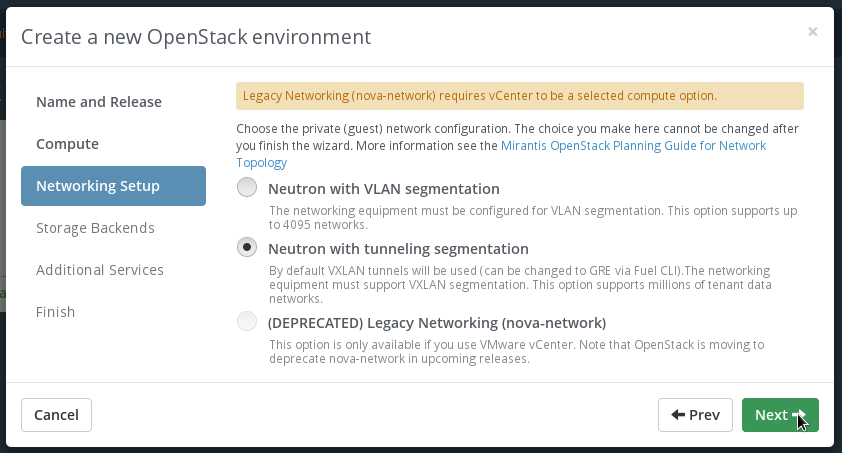
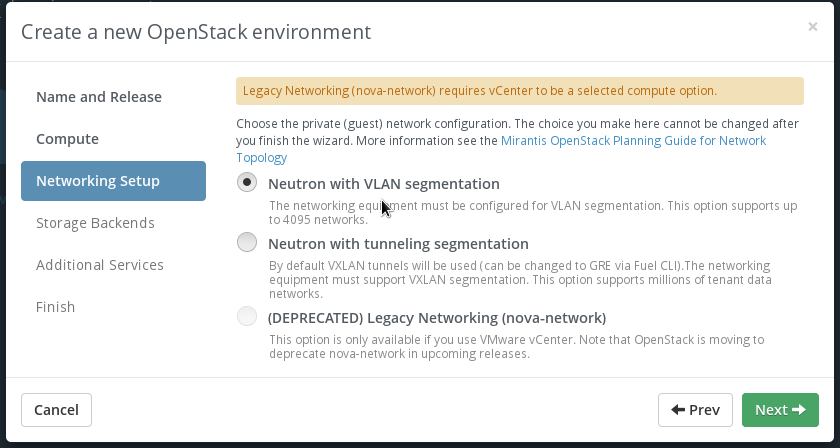
6wind-virtual-accelerator-plugin: update doc to better describe tunnel support
The current plugin version can fully support (and accelerate) only Fuel VLAN
tunnels that use a dedicated interface.
Future versions will add support for VxLAN/GRE and bridged VLANs.
This patch updates documentation to describe this scenario

diff --git a/doc/source/installation.rst b/doc/source/installation.rst
@@ -35,10 +35,11 @@ compute(s) the following requirements are mandatory:
 #.   Internet connectivity on Master node (since the plugin will download software from 6WIND remote repositories)
 #.   A dedicated link for Neutron networking tunnels between Compute and Network
 
-For networking all tunneling options are supported, namely VLAN, VXLAN and GRE.
-It is mandatory to use a dedicated physical network interface for your tunnels
+This version of plugin supports only VLAN as networking tunneling option.
+It is mandatory to use a dedicated physical network interface for your tunnel
 instead of the default Fuel setup that puts this interface on the same used
 for pxe and management.
+Support for VxLAN and for bridged VLAN will be available in future releases.
 
 The 6WIND virtual accelerator needs qemu and libvirt supporting vhostuser and
 multiqueue features to correclty run its fast packet processing stack.
@@ -91,11 +92,7 @@ Configuring 6WIND virtual accelerator Plugin
        :width: 80%
 
 #.  Please select Neutron networking.
-    The 6WIND virtual accelerator supports all tunneling models (VXLAN, GRE) and
-    VLAN segmentation.
-    For GRE segmentation you need to enable it from Fuel CLI.
-
-    It is **strongly recommended to use VXLAN** (or GRE) tunneling.
+    The 6WIND virtual accelerator supports only VLAN segmentation.
 
     .. image:: images/network.png
        :width: 80%
@@ -123,8 +120,6 @@ Configuring 6WIND virtual accelerator Plugin
        :width: 100%
 
 #.  Configure nodes to use a dedicated link for Neutron networking.
-
-    This step is recommended when using VXLAN/GRE but **mandatory** for VLAN scenarios.
 
     *   Select the Compute and 6WIND Virtual Accelerator node and configre its
         interfaces.
